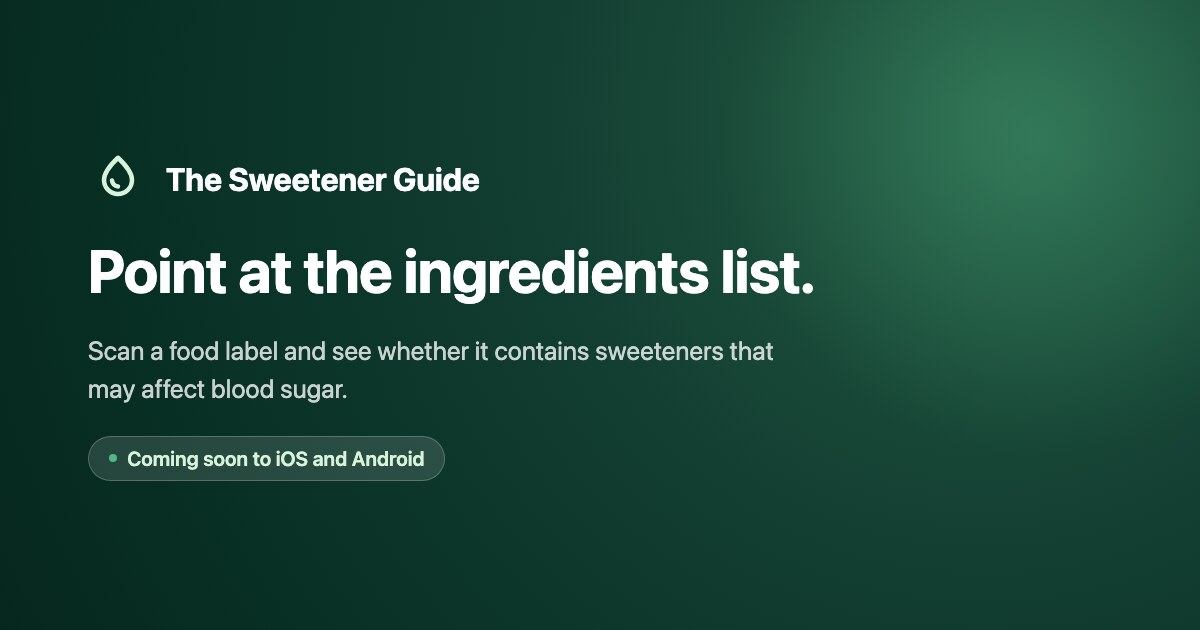
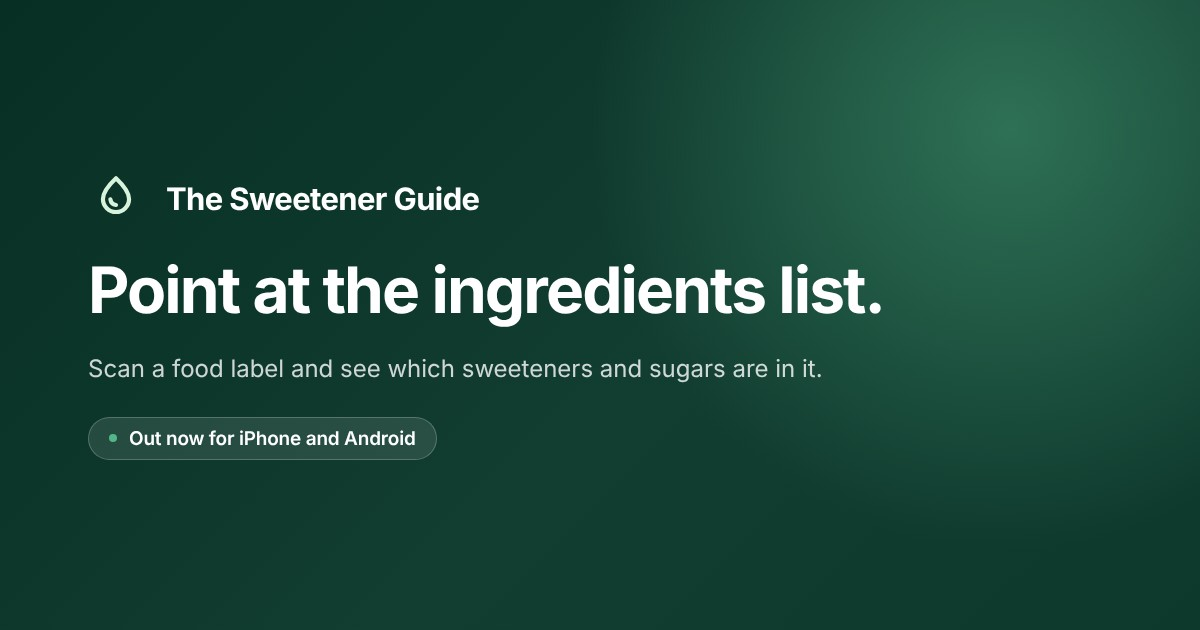
Say the app is out in the link preview picture
og-image.jpg still read "Coming soon to iOS and Android". It now carries
the front page's badge and its current sentence about what a scan shows.
og-image.html is its source, which the repository did not have.

Claude-Session: https://claude.ai/code/session_0189S9dBWRavHRdUmyC63PMC

Changed region(s): [[0.0617, 0.3921, 0.74, 0.7841], [0.0617, 0.2413, 0.4008, 0.3317]]

diff --git a/og-image.html b/og-image.html
@@ -1,0 +1,108 @@
+<!doctype html>
+<!--
+  The source of og-image.jpg, the 1200 × 630 picture a link to the site shows
+  when it is shared. Not a page of the site: nothing links here.
+
+  To make the picture again after changing this file, open it in a browser
+  window of exactly 1200 × 630 and save a screenshot as og-image.jpg (JPEG).
+  Sites that show link previews keep the old picture for a while; their own
+  "rescan" or "debugger" tools fetch the new one.
+
+  Keep the words in step with the front page: the badge with statusBadge and
+  the sentence with heroText in script.js.
+-->
+<html lang="en">
+  <head>
+    <meta charset="utf-8">
+    <meta name="robots" content="noindex">
+    <title>Link preview picture — The Sweetener Guide</title>
+    <style>
+      * { box-sizing: border-box; margin: 0; padding: 0; }
+
+      html, body {
+        width: 1200px;
+        height: 630px;
+        overflow: hidden;
+      }
+
+      body {
+        display: flex;
+        flex-direction: column;
+        justify-content: center;
+        padding: 0 88px;
+        color: #fff;
+        background:
+          radial-gradient(circle at 1010px 130px, rgba(64, 145, 108, 0.62), transparent 420px),
+          linear-gradient(135deg, #082f24 0%, #123d31 55%, #0d382c 100%);
+        font-family: Inter, -apple-system, BlinkMacSystemFont, "Segoe UI", "Helvetica Neue", Arial, sans-serif;
+        -webkit-font-smoothing: antialiased;
+      }
+
+      .brand {
+        display: flex;
+        align-items: center;
+        gap: 22px;
+        margin-bottom: 30px;
+        font-size: 31px;
+        font-weight: 700;
+        letter-spacing: -0.02em;
+      }
+
+      .brand svg {
+        width: 56px;
+        height: 56px;
+        color: #d8f3dc;
+      }
+
+      h1 {
+        margin-bottom: 26px;
+        font-size: 64px;
+        font-weight: 700;
+        line-height: 1.05;
+        letter-spacing: -0.03em;
+      }
+
+      p {
+        max-width: 860px;
+        margin-bottom: 30px;
+        color: rgba(255, 255, 255, 0.8);
+        font-size: 24px;
+        line-height: 1.55;
+      }
+
+      .badge {
+        display: inline-flex;
+        align-items: center;
+        gap: 12px;
+        width: fit-content;
+        padding: 9px 20px;
+        border: 1px solid rgba(255, 255, 255, 0.22);
+        border-radius: 999px;
+        background: rgba(255, 255, 255, 0.1);
+        font-size: 19px;
+        font-weight: 600;
+        letter-spacing: -0.01em;
+      }
+
+      .badge::before {
+        content: "";
+        width: 8px;
+        height: 8px;
+        border-radius: 50%;
+        background: #52b788;
+      }
+    </style>
+  </head>
+  <body>
+    <div class="brand">
+      <svg viewBox="0 0 24 24" fill="none" aria-hidden="true">
+        <path d="M12 3.5c3.6 3.4 5.6 6.2 5.6 8.9A5.6 5.6 0 0 1 12 18a5.6 5.6 0 0 1-5.6-5.6c0-2.7 2-5.5 5.6-8.9Z" stroke="currentColor" stroke-width="1.8" stroke-linejoin="round"/>
+        <path d="M9.6 12.6c.2 1.3 1.1 2.2 2.4 2.4" stroke="currentColor" stroke-width="1.8" stroke-linecap="round"/>
+      </svg>
+      The Sweetener Guide
+    </div>
+    <h1>Point at the ingredients list.</h1>
+    <p>Scan a food label and see which sweeteners and sugars are in it.</p>
+    <div class="badge">Out now for iPhone and Android</div>
+  </body>
+</html>
